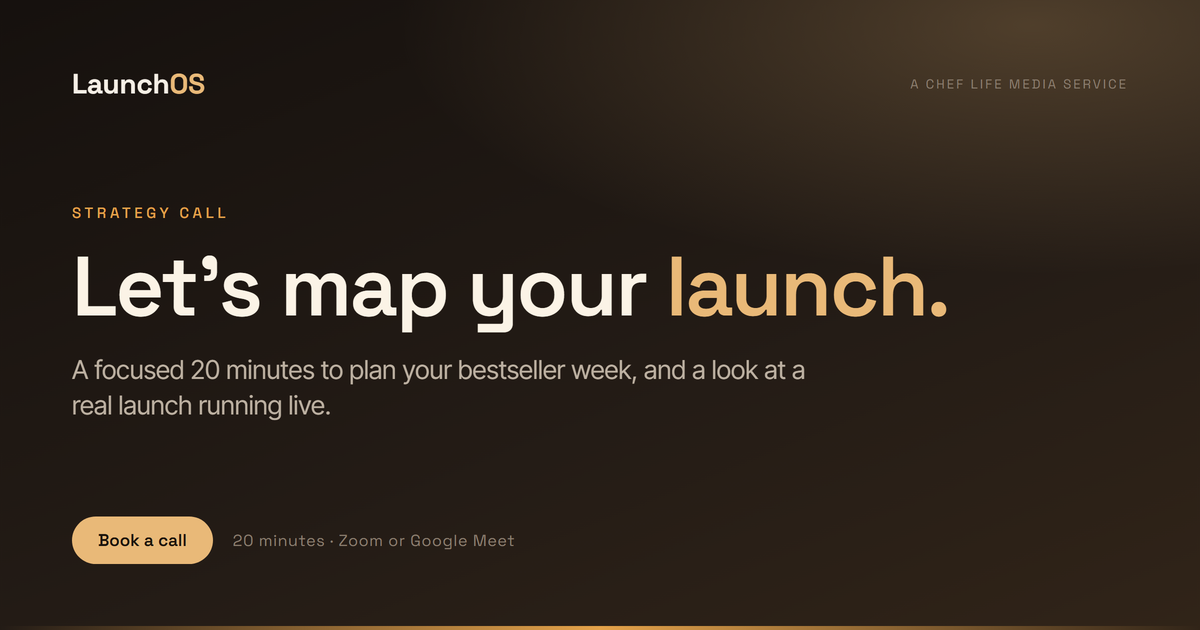
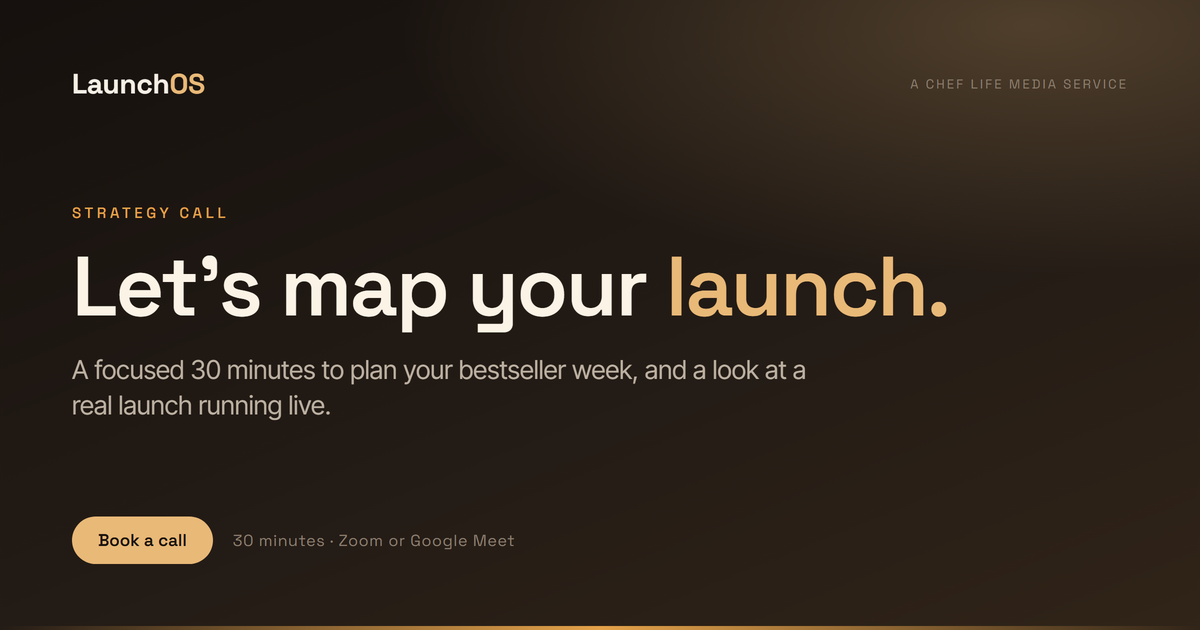
Wire FluentBooking link into all Book-a-call CTAs; align duration to 30 min

Changed region(s): [[0.1542, 0.573, 0.6783, 0.6032]]

diff --git a/index.html b/index.html
@@ -215,7 +215,7 @@
       <a class="link" href="#proof">The proof</a>
       <a class="link" href="#system">What you get</a>
       <a class="link" href="#pricing">Pricing</a>
-      <a class="btn btn-primary" href="#book"><i class="ph ph-phone-call"></i>Book a call</a>
+      <a class="btn btn-primary" href="https://cheflifemedia.com/?fluent-booking=calendar&amp;host=tnnlkafmtide&amp;event=30min" target="_blank" rel="noopener"><i class="ph ph-phone-call"></i>Book a call</a>
     </nav>
   </div>
 </header>
@@ -230,7 +230,7 @@
         <h1 class="display" style="margin-top:16px">Turn your audience into a <span class="gold">bestseller</span> week.</h1>
         <p class="lead">We build your whole launch system: tracker, pages, and partner engine, in your brand, live in a week.</p>
         <div class="hero-cta">
-          <a class="btn btn-primary" href="#book"><i class="ph ph-phone-call"></i>Book a call</a>
+          <a class="btn btn-primary" href="https://cheflifemedia.com/?fluent-booking=calendar&amp;host=tnnlkafmtide&amp;event=30min" target="_blank" rel="noopener"><i class="ph ph-phone-call"></i>Book a call</a>
           <a class="btn btn-ghost" href="#proof"><i class="ph ph-play-circle"></i>See it live</a>
         </div>
       </div>
@@ -383,7 +383,7 @@
             <li><i class="ph ph-check"></i>Copy kit as editable drafts</li>
             <li><i class="ph ph-check"></i>Handoff and training call</li>
           </ul>
-          <a class="btn btn-ghost" href="#book">Book a call</a>
+          <a class="btn btn-ghost" href="https://cheflifemedia.com/?fluent-booking=calendar&amp;host=tnnlkafmtide&amp;event=30min" target="_blank" rel="noopener">Book a call</a>
         </div>
         <div class="tier feature reveal">
           <span class="flag">Most chosen</span>
@@ -396,7 +396,7 @@
             <li><i class="ph ph-check"></i>Copy tailored to your voice, two rounds</li>
             <li><i class="ph ph-check"></i>Launch-week guidance, live</li>
           </ul>
-          <a class="btn btn-primary" href="#book">Book a call</a>
+          <a class="btn btn-primary" href="https://cheflifemedia.com/?fluent-booking=calendar&amp;host=tnnlkafmtide&amp;event=30min" target="_blank" rel="noopener">Book a call</a>
         </div>
         <div class="tier reveal">
           <div class="name">The Full Launch</div>
@@ -408,7 +408,7 @@
             <li><i class="ph ph-check"></i>Podcast pipeline support</li>
             <li><i class="ph ph-check"></i>Post-launch optimization</li>
           </ul>
-          <a class="btn btn-ghost" href="#book">Book a call</a>
+          <a class="btn btn-ghost" href="https://cheflifemedia.com/?fluent-booking=calendar&amp;host=tnnlkafmtide&amp;event=30min" target="_blank" rel="noopener">Book a call</a>
         </div>
       </div>
     </div>
@@ -418,8 +418,8 @@
   <section class="cta-band" id="book">
     <div class="wrap">
       <h2 class="h2">Ready for a launch that's actually engineered?</h2>
-      <p class="lead">Book a 20-minute strategy call. We will map your buy-day and show you the whole system, live.</p>
-      <a class="btn btn-primary" href="mailto:[email redacted]?subject=Launch%20OS%20strategy%20call"><i class="ph ph-phone-call"></i>Book a call</a>
+      <p class="lead">Book a 30-minute strategy call. We will map your buy-day and show you the whole system, live.</p>
+      <a class="btn btn-primary" href="https://cheflifemedia.com/?fluent-booking=calendar&amp;host=tnnlkafmtide&amp;event=30min" target="_blank" rel="noopener"><i class="ph ph-phone-call"></i>Book a call</a>
     </div>
   </section>
 